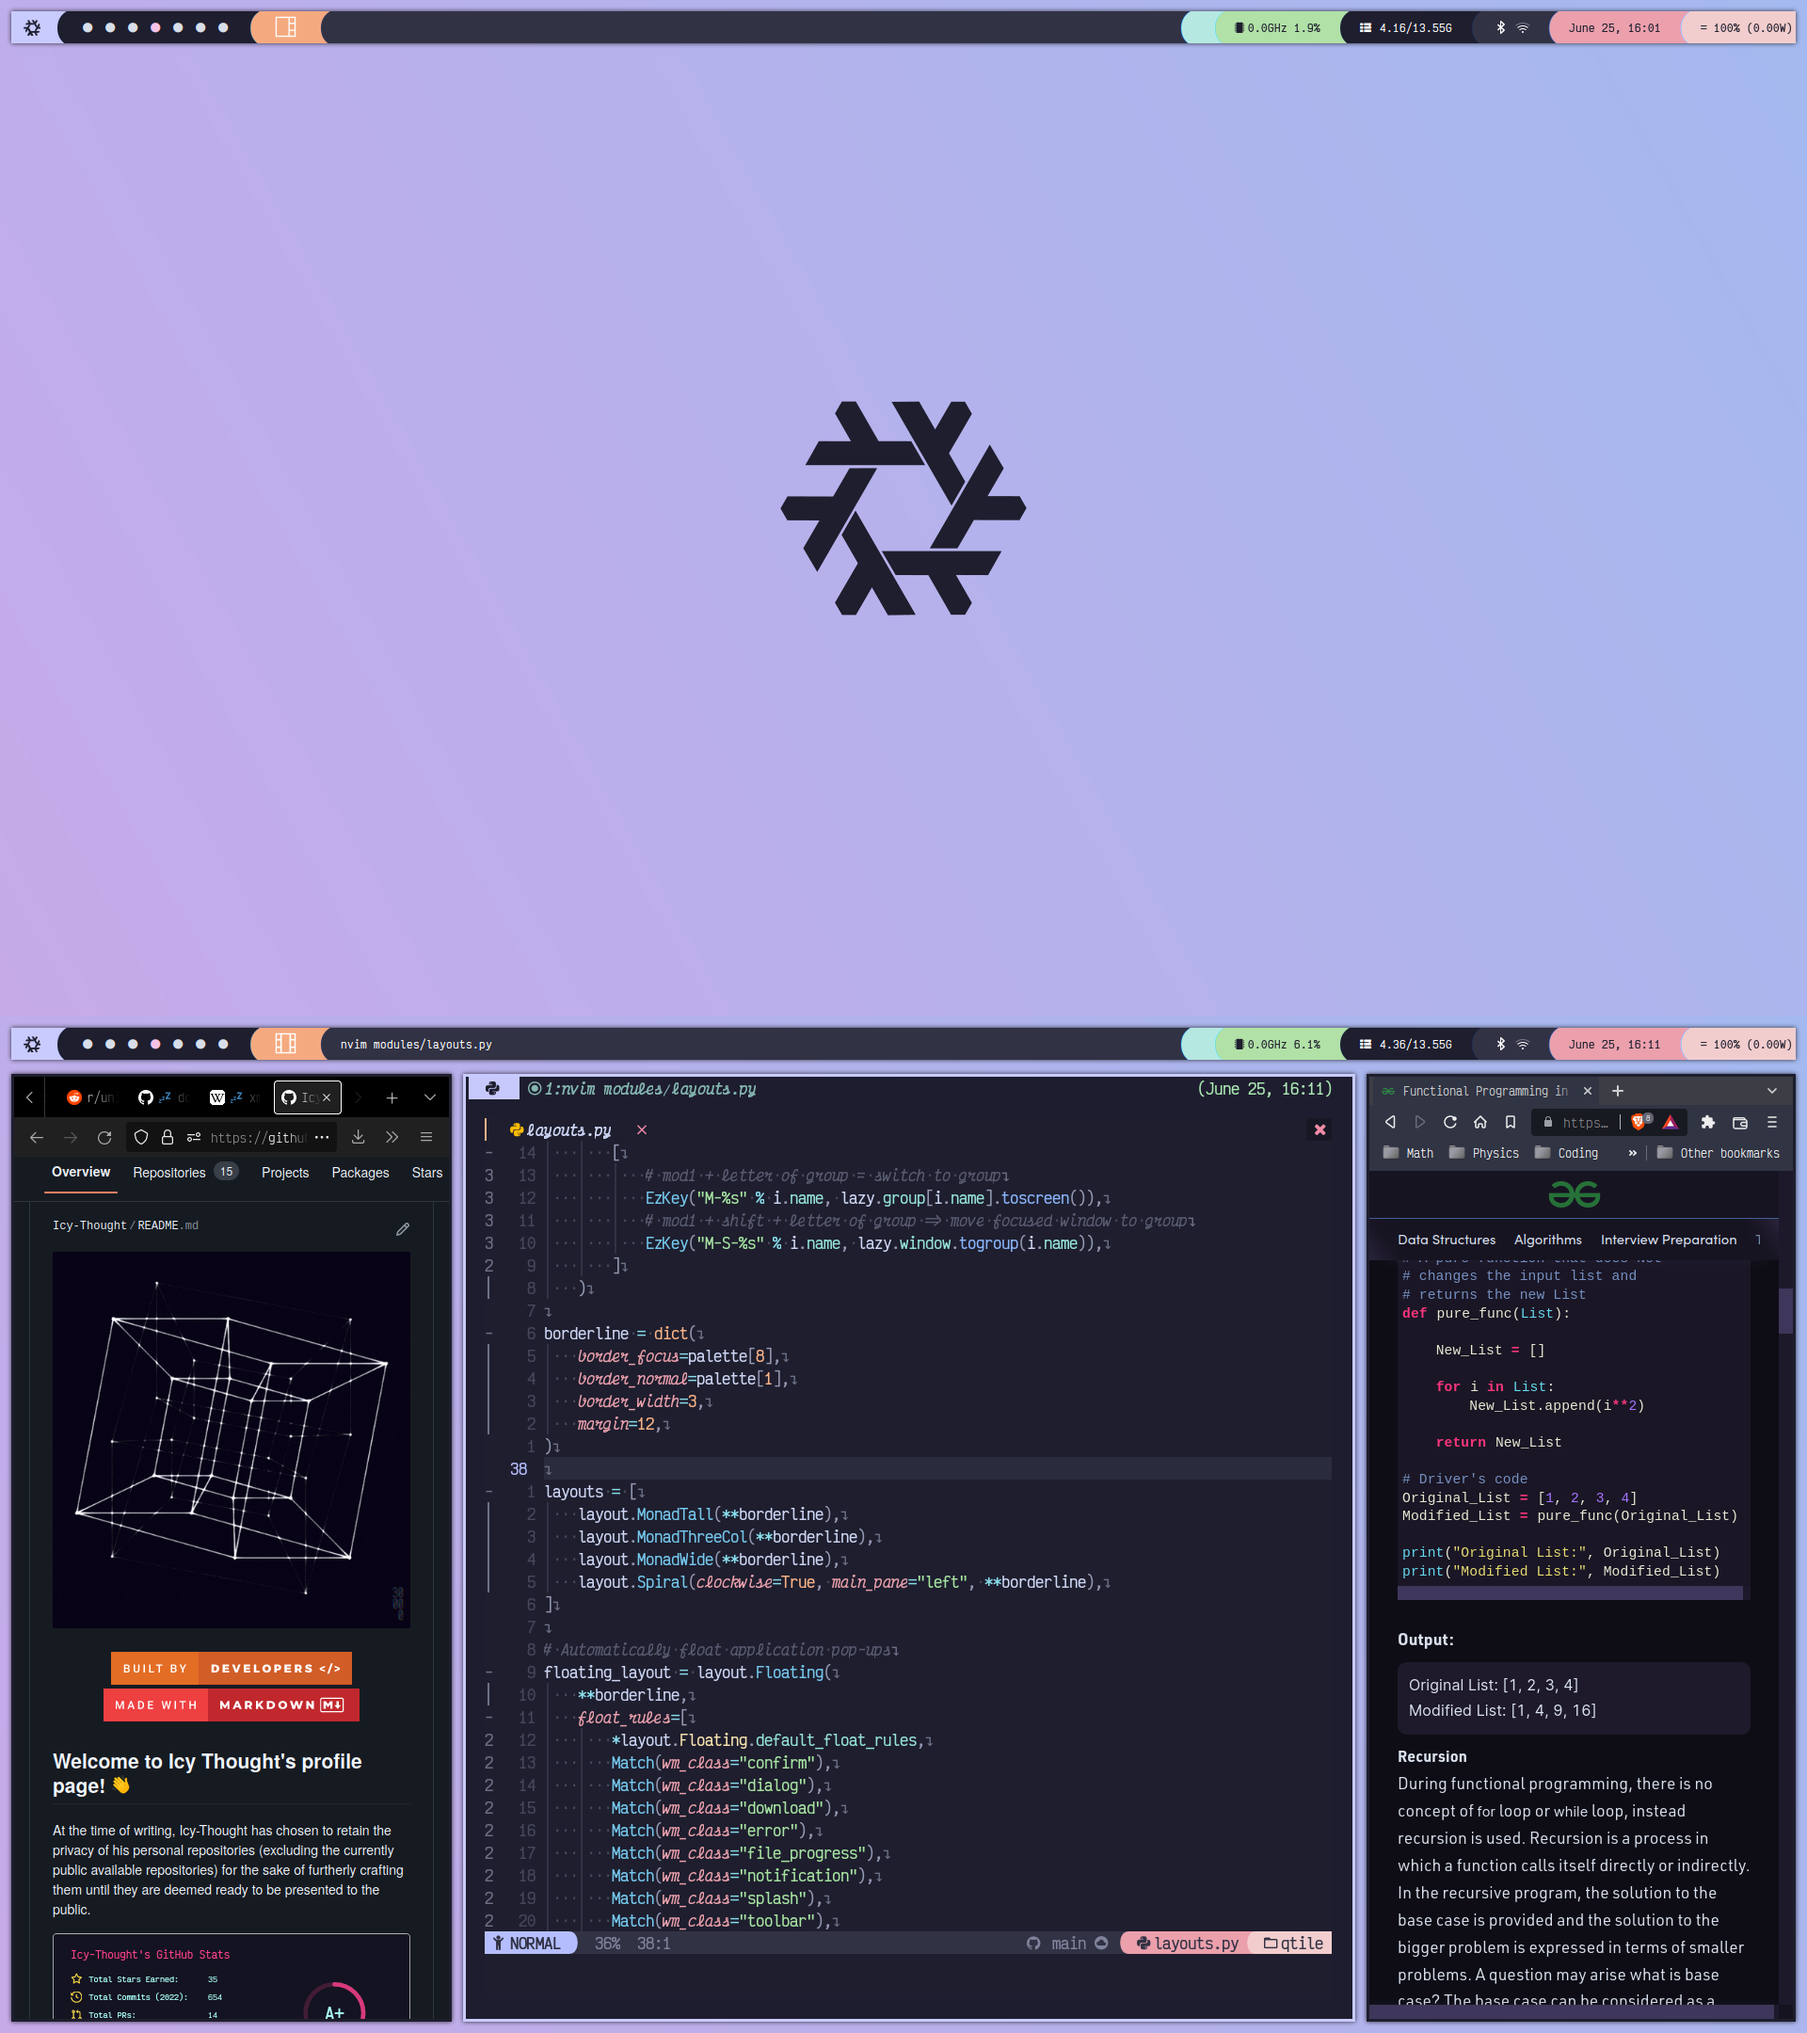
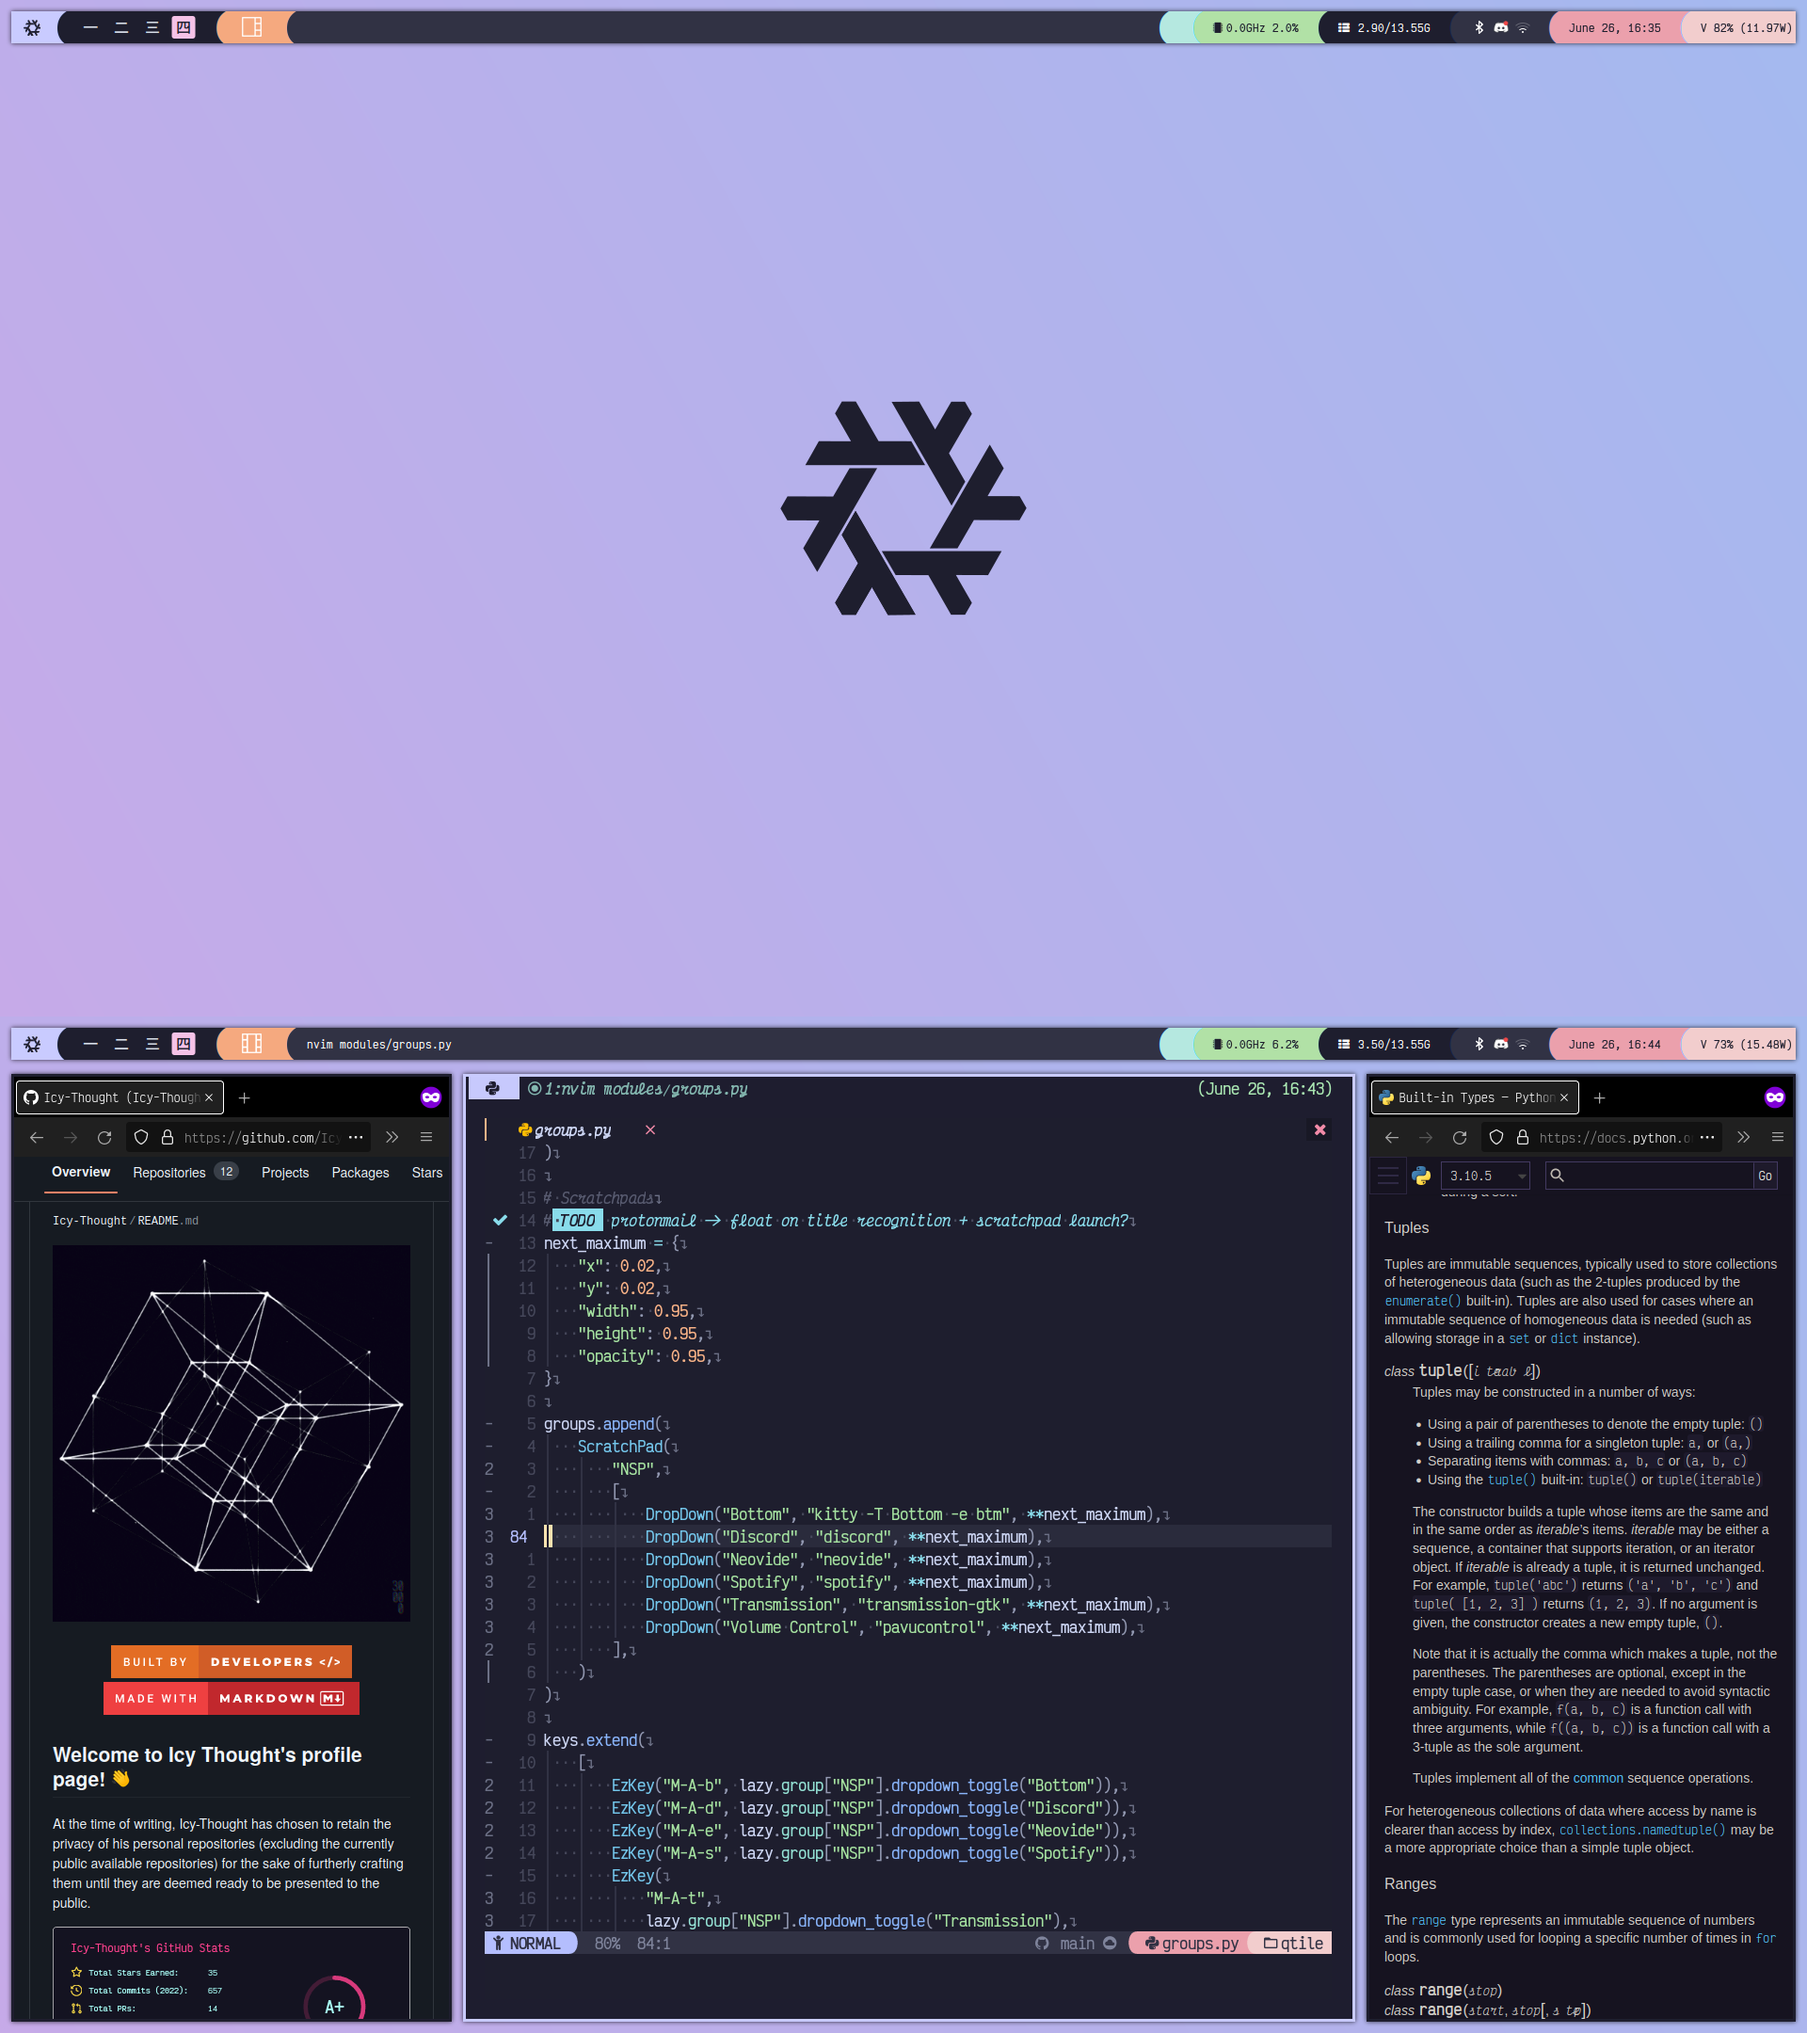
[𝝏] (qtile): updated screenshot

diff --git a/README.md b/README.md
@@ -1,4 +1,4 @@
-![XMonad Desktop](./.assets/main/xmonad-desktop.png)
+![Qtile Desktop](./.assets/main/qtile-desktop.png)
 
 # Table of Contents
 - [Introduction](#introduction)
@@ -167,5 +167,4 @@ You have successful installed your/my personally hand-crafted/replicated Nix-Fla
 - [A Tour of Nix](https://nixcloud.io/tour/?id=1): a beautifully crafted introduction into the Nix programming language.
 
 # Special Thanks
-- [hlissner/dotfiles](https://github.com/hlissner/dotfiles): Flake structure!
-- [IvanMalison/dotfiles](https://github.com/IvanMalison/dotfiles): XMonad + Taffybar Setup!
+- [hlissner/dotfiles](https://github.com/hlissner/dotfiles): nix-flake skeleton!
